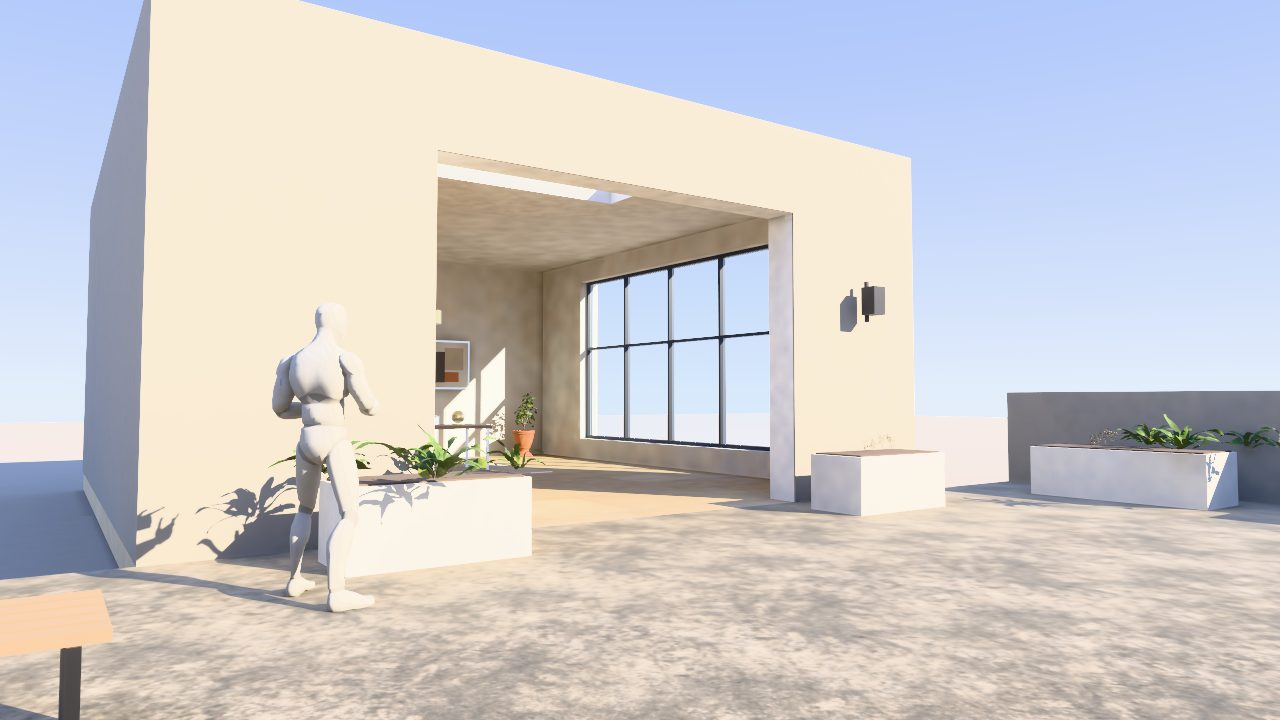
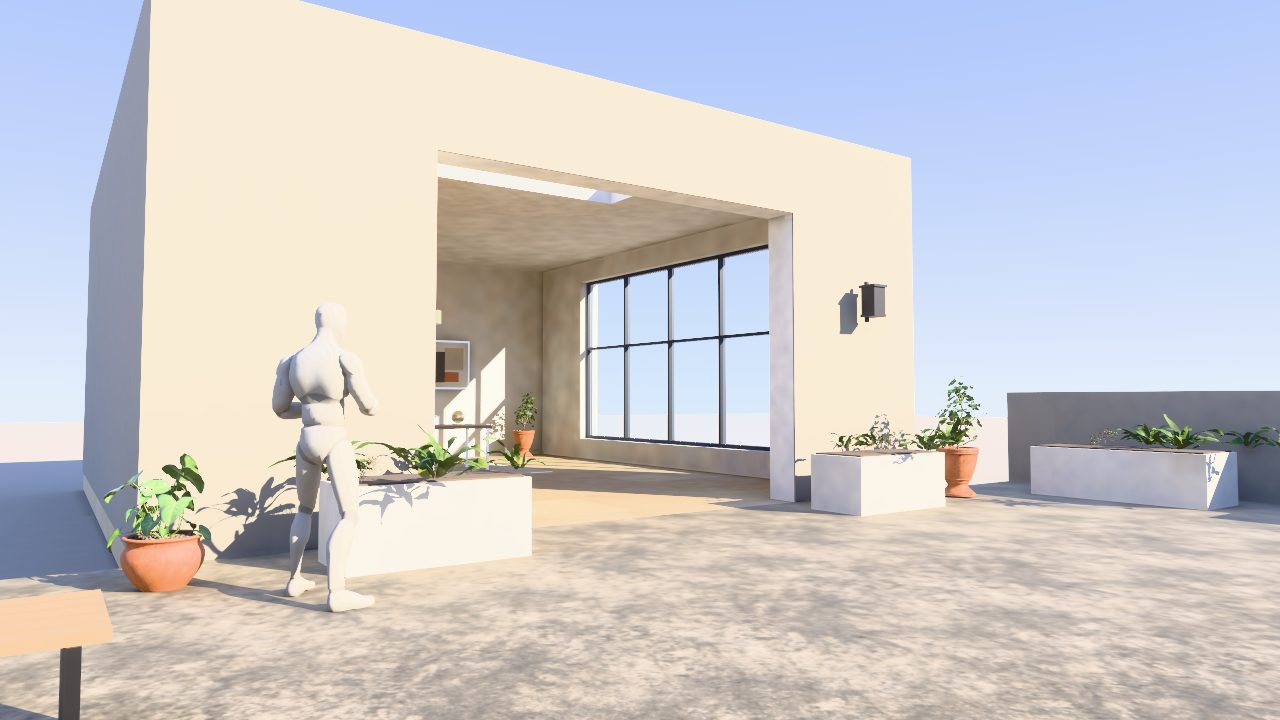
Atelier: courtyard dressing (second plants in the doorway planters, terracotta pots, lantern cap, foot and bands), dolly start preview

diff --git a/crates/ara-samples/src/build/atelier/mod.rs b/crates/ara-samples/src/build/atelier/mod.rs
@@ -428,6 +428,13 @@ pub fn build(ctx: &Ctx) -> Result<()> {
         ("shrub", Vec3::new(2.6, 0.62, 1.3), 0.0, 0.9),
         ("pot_a", Vec3::new(3.3, 0.0, -8.4), 200.0, 1.0),
         ("pot_b", Vec3::new(-3.4, 0.0, -0.9), 30.0, 1.0),
+        // Courtyard dressing: a second plant in each doorway planter, terracotta pots at
+        // the building's front corners and one by the bench.
+        ("shrub", Vec3::new(-3.05, 0.62, 1.3), 60.0, 0.8),
+        ("fern", Vec3::new(3.05, 0.62, 1.3), 200.0, 0.9),
+        ("pot_a", Vec3::new(4.3, 0.0, 1.2), 140.0, 1.1),
+        ("pot_b", Vec3::new(-4.3, 0.0, 1.2), 310.0, 1.0),
+        ("pot_a", Vec3::new(-6.0, 0.0, 5.3), 20.0, 1.0),
     ]
     .into_iter()
     .enumerate()

diff --git a/crates/ara-samples/src/build/atelier/kits.rs b/crates/ara-samples/src/build/atelier/kits.rs
@@ -292,5 +292,11 @@ pub fn courtyard(root: &Path, lock: &Lock) -> Result<String> {
     block(&mut k, STEEL, l + v(0.0, 0.0, 0.08), v(0.04, 0.5, 0.04));
     block(&mut k, STEEL, l + v(0.0, 0.0, 0.18), v(0.2, 0.34, 0.2));
     block(&mut k, LANTERN, l + v(0.0, 0.0, 0.18), v(0.17, 0.3, 0.17));
+    // Cap and foot of the lantern, and two steel bands round the glass.
+    block(&mut k, STEEL, l + v(0.0, 0.18, 0.18), v(0.24, 0.03, 0.24));
+    block(&mut k, STEEL, l + v(0.0, -0.18, 0.18), v(0.22, 0.03, 0.22));
+    for y in [-0.08, 0.08] {
+        block(&mut k, STEEL, l + v(0.0, y, 0.18), v(0.2, 0.012, 0.2));
+    }
     k.write(root, lock, "atelier_courtyard")
 }
